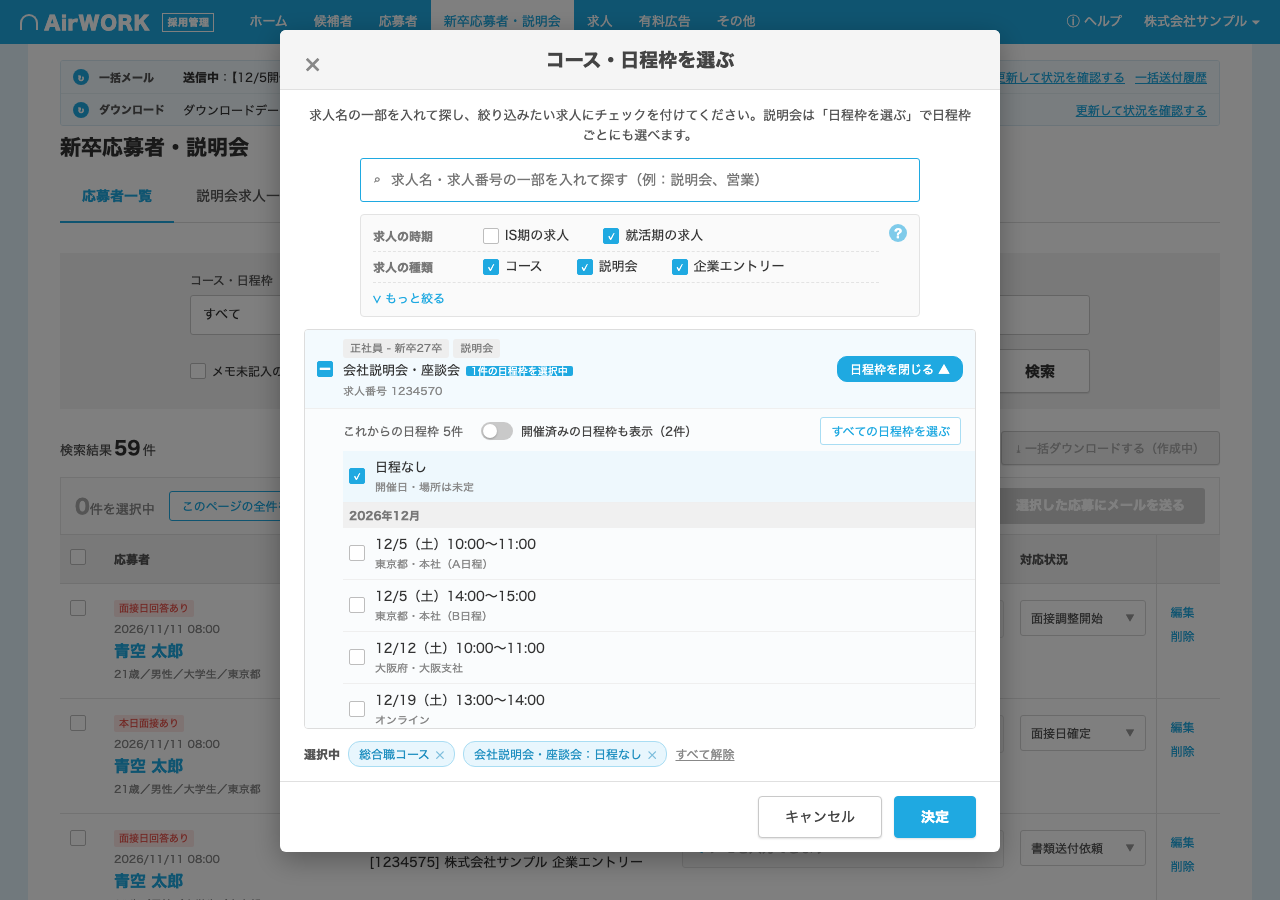
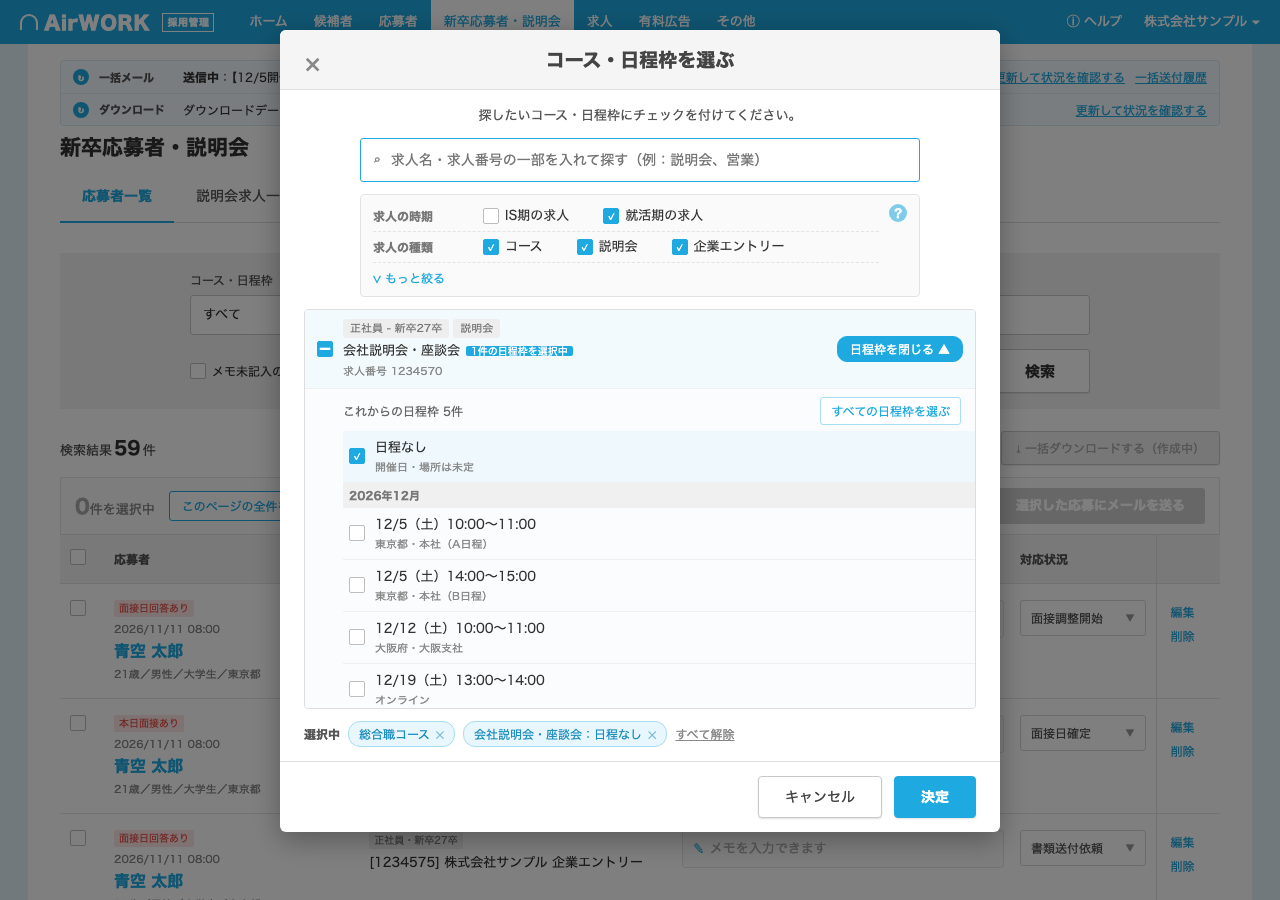
開催済みの日程枠の表示を、もっと絞るの「日程枠」の行に移す。モーダル上部の文言を変える

Changed region(s): [[0.2188, 0.1244, 0.7812, 0.9644], [0.6875, 0.2178, 0.7188, 0.28]]

diff --git a/app.js b/app.js
@@ -450,7 +450,7 @@
   $('demoDl').onchange = renderAlerts;
 
   // ---------- コース・日程枠モーダル ----------
-  const M = { fs: null, q: '', more: false, focus: null, showPast: false, jobs: new Set(), slots: new Set() };
+  const M = { fs: null, q: '', more: false, focus: null, jobs: new Set(), slots: new Set() };
   const appsOfJob = (jid) => APPS.filter((a) => a.job === jid);
   const hasApps = (jid) => APPS.some((a) => a.job === jid);
   const allSlotKeys = (jid) => ['none', ...SLOTS[jid].map((x) => x.id)].map((sid) => `${jid}:${sid}`);
@@ -482,8 +482,9 @@
     ['type', '求人の種類', () => [['course', 'コース'], ['seminar', '説明会'], ['entry', '企業エントリー']], false],
     ['year', '求人の対象卒年', () => MD_YEARS.map((y) => [y, `${y}卒`]), true],
     ['post', '掲載状況', () => [['on', '掲載中'], ['off', '掲載終了・未掲載']], true],
+    ['past', '日程枠', () => [['on', '開催済みの日程枠も表示']], true],
   ];
-  const defaultFs = () => ({ season: new Set(['main']), type: new Set(['course', 'seminar', 'entry']), year: new Set(MD_YEARS), post: new Set(['on']) });
+  const defaultFs = () => ({ season: new Set(['main']), type: new Set(['course', 'seminar', 'entry']), year: new Set(MD_YEARS), post: new Set(['on']), past: new Set() });
   function visibleJobs() {
     const fs = M.fs;
     return JOBS.filter((j) => hasApps(j.id) && fs.season.has(j.season) && fs.type.has(j.type)
@@ -492,7 +493,7 @@
       .sort((a, b) => b.created.localeCompare(a.created));
   }
   function openModal() {
-    Object.assign(M, { fs: defaultFs(), q: '', more: false, focus: null, showPast: false, jobs: new Set(F.jobs), slots: new Set(F.slots) });
+    Object.assign(M, { fs: defaultFs(), q: '', more: false, focus: null, jobs: new Set(F.jobs), slots: new Set(F.slots) });
     $('mdQ').value = '';
     $('ov').classList.add('open'); $('md').classList.add('open');
     renderModal();
@@ -501,11 +502,9 @@
   function renderModal() {
     const fs = M.fs;
     const isIS = !fs.season.has('main');
-    $('mdDesc').textContent = isIS
-      ? '求人名の一部を入れて探し、絞り込みたい求人にチェックを付けてください。'
-      : '求人名の一部を入れて探し、絞り込みたい求人にチェックを付けてください。説明会は「日程枠を選ぶ」で日程枠ごとにも選べます。';
+    $('mdDesc').textContent = '探したいコース・日程枠にチェックを付けてください。';
     const d = defaultFs();
-    const moreSet = fs.year.size !== d.year.size || fs.post.size !== 1 || !fs.post.has('on');
+    const moreSet = fs.year.size !== d.year.size || fs.post.size !== 1 || !fs.post.has('on') || fs.past.size > 0;
     $('moreLk').textContent = M.more ? '∧ もっと絞るを閉じる' : `∨ もっと絞る${moreSet ? '（指定中）' : ''}`;
     $('frows').innerHTML = FROWS.filter((r) => !r[3] || M.more).map(([f, label, opts]) => `<div class="frow"><span class="fl">${label}</span>${opts().map(([v, t]) => {
       const dis = f === 'type' && v === 'seminar' && isIS;
@@ -538,12 +537,13 @@
     const row = (sid, t1, t2, rr, cls = '') => { const key = `${j.id}:${sid}`; const on = jobOn || M.slots.has(key); return `<div class="slr ${on ? 'on' : ''} ${cls}" data-slot="${key}"><span class="box ${on ? 'on' : ''}"></span><div class="main"><div>${t1}</div><div class="t2">${t2}</div></div><div class="r">${rr}</div></div>`; };
     let html = row('none', '日程なし', '開催日・場所は未定', '');
     let mon = '';
-    const list = M.showPast ? past.concat(up) : up;
+    const showPast = M.fs.past.has('on');
+    const list = showPast ? past.concat(up) : up;
     list.forEach((s) => {
       if (s.mon !== mon) { mon = s.mon; html += `<div class="mon">${mon}${s.past ? '（開催済み）' : ''}</div>`; }
       html += row(s.id, s.label, s.venue, '', s.past ? 'pastr' : '');
     });
-    return `<div class="sub"><div class="subh"><span class="cnt">これからの日程枠 ${up.length}件</span>${past.length ? `<label class="vsw" data-past="1"><span class="tr ${M.showPast ? 'on' : ''}"><span class="kn"></span></span>開催済みの日程枠も表示（${past.length}件）</label>` : ''}<span class="vbtn" data-allslots="${j.id}">${jobOn ? 'すべての日程枠の選択を外す' : 'すべての日程枠を選ぶ'}</span></div>
+    return `<div class="sub"><div class="subh"><span class="cnt">${showPast && past.length ? `日程枠 ${list.length}件（開催済みを含む）` : `これからの日程枠 ${up.length}件`}</span><span class="vbtn" data-allslots="${j.id}">${jobOn ? 'すべての日程枠の選択を外す' : 'すべての日程枠を選ぶ'}</span></div>
       ${html}</div>`;
   }
   $('kwTip').onclick = (e) => { e.preventDefault(); e.stopPropagation(); $('kwTip').classList.toggle('show'); };
@@ -563,6 +563,11 @@
     if (!l || l.classList.contains('dis')) return;
     e.preventDefault();
     const set = M.fs[l.dataset.f]; const v = l.dataset.v;
+    if (l.dataset.f === 'past') {
+      if (set.has(v)) set.delete(v); else set.add(v);
+      renderModal();
+      return;
+    }
     if (set.has(v)) {
       if (set.size === 1) { toast('最後の1つは外せません'); return; }
       set.delete(v);
@@ -573,17 +578,16 @@
   $('jobList').onclick = (e) => {
     const s = e.target.closest('[data-slot]');
     if (s) { toggleSlot(s.dataset.slot); renderModal(); return; }
-    if (e.target.closest('[data-past]')) { M.showPast = !M.showPast; renderModal(); return; }
     const al = e.target.closest('[data-allslots]');
     if (al) { const j = al.dataset.allslots; if (M.jobs.has(j)) { M.jobs.delete(j); clearSlots(j); } else { clearSlots(j); M.jobs.add(j); } renderModal(); return; }
     const x = e.target.closest('[data-exp]');
-    if (x) { M.focus = M.focus === x.dataset.exp ? null : x.dataset.exp; M.showPast = false; renderModal(); return; }
+    if (x) { M.focus = M.focus === x.dataset.exp ? null : x.dataset.exp; renderModal(); return; }
     const c = e.target.closest('[data-check]');
     if (c) { toggleJob(c.dataset.check); renderModal(); return; }
     const it = e.target.closest('[data-j]');
     if (!it) return;
     const j = jobById(it.dataset.j);
-    if (j.type === 'seminar') { M.focus = M.focus === j.id ? null : j.id; M.showPast = false; }
+    if (j.type === 'seminar') M.focus = M.focus === j.id ? null : j.id;
     else toggleJob(j.id);
     renderModal();
   };
